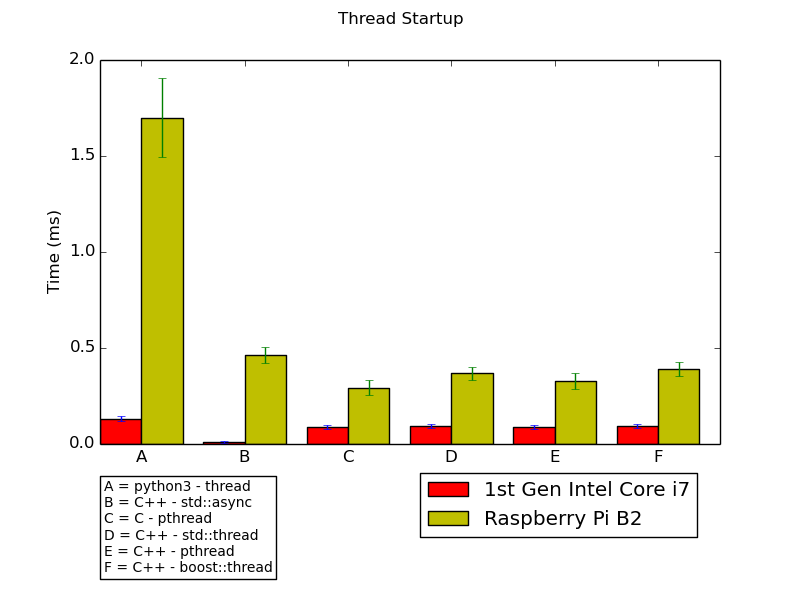
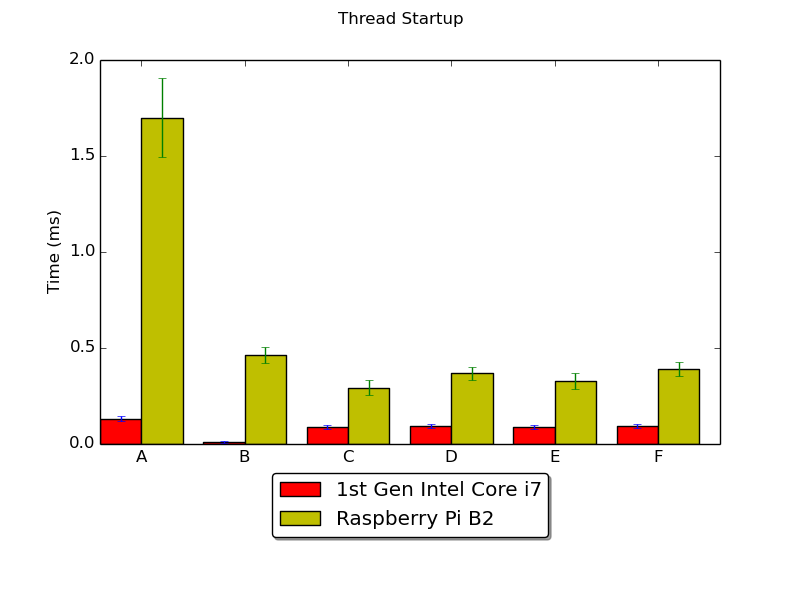
Moved labelling for bars to text in HTML

Changed region(s): [[0.125, 0.78, 0.875, 0.99]]

diff --git a/docs/index.html b/docs/index.html
@@ -23,6 +23,33 @@
 			<h2>Thread Startup</h2>
 			<p>Time between immediately before the thread creation function is called and the first execution of that thread.</p>
 			<img src="img/thread_start.png">
+			<table border="1" align=center>
+				
+				<tr>
+					<td>A = python3 - thread</td>
+				</tr>
+				
+				<tr>
+					<td>C = C - pthread</td>
+				</tr>
+				
+				<tr>
+					<td>B = C++ - std::async</td>
+				</tr>
+				
+				<tr>
+					<td>E = C++ - pthread</td>
+				</tr>
+				
+				<tr>
+					<td>D = C++ - std::thread</td>
+				</tr>
+				
+				<tr>
+					<td>F = C++ - boost::thread</td>
+				</tr>
+				
+			</table>
 			
 				<h3>1st Gen Intel Core i7</h3>
 				<table border="1">
@@ -176,6 +203,49 @@
 			<h2>Semaphore Unlock</h2>
 			<p>Time between when one thread posts a semaphore and a waiting thread is running.</p>
 			<img src="img/sem_unlock.png">
+			<table border="1" align=center>
+				
+				<tr>
+					<td>A = C++ - semt</td>
+				</tr>
+				
+				<tr>
+					<td>C = C++ - boost_namedmutex_fast</td>
+				</tr>
+				
+				<tr>
+					<td>B = C++ - boost_mutex_fast</td>
+				</tr>
+				
+				<tr>
+					<td>E = C++ - pthread_mutex_fast</td>
+				</tr>
+				
+				<tr>
+					<td>D = C - pthread_mutex_fast</td>
+				</tr>
+				
+				<tr>
+					<td>G = C - pthread_mutex_recursive</td>
+				</tr>
+				
+				<tr>
+					<td>F = C++ - boost_namedmutex_recursive</td>
+				</tr>
+				
+				<tr>
+					<td>I = C++ - pthread_mutex_recursive</td>
+				</tr>
+				
+				<tr>
+					<td>H = C - semt</td>
+				</tr>
+				
+				<tr>
+					<td>J = C++ - boost_mutex_recursive</td>
+				</tr>
+				
+			</table>
 			
 				<h3>1st Gen Intel Core i7</h3>
 				<table border="1">
@@ -409,6 +479,33 @@
 			<h2>Thread Shutdown</h2>
 			<p>Time between immediately before a thread terminates and when the creator of the thread receives notification that the thread shut down.</p>
 			<img src="img/thread_shutdown.png">
+			<table border="1" align=center>
+				
+				<tr>
+					<td>A = python3 - thread</td>
+				</tr>
+				
+				<tr>
+					<td>C = C - pthread</td>
+				</tr>
+				
+				<tr>
+					<td>B = C++ - std::async</td>
+				</tr>
+				
+				<tr>
+					<td>E = C++ - pthread</td>
+				</tr>
+				
+				<tr>
+					<td>D = C++ - std::thread</td>
+				</tr>
+				
+				<tr>
+					<td>F = C++ - boost::thread</td>
+				</tr>
+				
+			</table>
 			
 				<h3>1st Gen Intel Core i7</h3>
 				<table border="1">

diff --git a/docs/template.html b/docs/template.html
@@ -22,7 +22,14 @@
 		{% for testName in results %}
 			<h2>{{lookup[ 'Tests' ][ testName ][ 'name' ]}}</h2>
 			<p>{{lookup[ 'Tests' ][ testName ][ 'description' ]}}</p>
-			<img src="{{graphs[ testName ]}}">
+			<img src="{{graphs[ testName ][ 'path' ]}}">
+			<table border="1" align=center>
+				{% for char in graphs[ testName ][ 'text' ] %}
+				<tr>
+					<td>{{graphs[ testName ][ 'text' ][ char ]}}</td>
+				</tr>
+				{% endfor %}
+			</table>
 			{% for proc in lookup[ "CPUs" ] %}
 				<h3>{{lookup[ "CPUs" ][ proc ]}}</h3>
 				<table border="1">

diff --git a/src/generateHTML.py b/src/generateHTML.py
@@ -22,6 +22,7 @@ def graphData( args ):
 	
 	results = {}
 	for test in jsonData:
+		results[ test ] = {}
 		title = lookupData[ 'Tests' ][ test ][ 'name' ]
 	
 		avgs = {}
@@ -34,7 +35,7 @@ def graphData( args ):
 		axisLabels = []
 			
 		count = 0
-		textLines = {}
+		results[ test ][ 'text' ] = {}
 		for testRun in jsonData[ test ]:
 			currChar = chr( ord( 'A' ) + count )
 			axisLabels.append( currChar )
@@ -46,10 +47,8 @@ def graphData( args ):
 				errors[ proc ].append( data[ 'std' ] )
 				label = '{} - {}'.format( data[ 'language' ], data[ 'library' ] )
 				labels[ proc ].append( label )
-				if not currChar in textLines:
-					textLines[ currChar ] = '{} = {}'.format( currChar, label )
-		
-		text = '\n'.join( [ textLines[ letter ] for letter in sorted( textLines ) ] )
+				if not currChar in results[ test ][ 'text' ]:
+					results[ test ][ 'text' ][ currChar ] = '{} = {}'.format( currChar, label )
 
 		N = len( avgs.itervalues().next() )
 		ind = np.arange( N )
@@ -68,12 +67,11 @@ def graphData( args ):
 		ax.set_xticklabels( axisLabels )
 		box = ax.get_position()
 		ax.set_position([box.x0, box.y0 + box.height * 0.2, box.width, box.height * 0.8])
-		ax.legend( graphs, [ lookupData[ 'CPUs' ][ proc ] for proc in procs ], loc='upper left', bbox_to_anchor=(0.5, -0.05) )
-		ax.text( 0.13, 0.2, text, fontsize=10, transform=fig.transFigure, verticalalignment='top', 
-			bbox=dict( boxstyle='square', facecolor='white', alpha=1 ) )
+		ax.legend( graphs, [ lookupData[ 'CPUs' ][ proc ] for proc in procs ], loc='upper center',
+			bbox_to_anchor=( 0.5, -0.05 ), fancybox=True, shadow=True )
 		
 		path = os.path.join( os.path.relpath( args.graphPath, os.path.dirname( args.htmlFile ) ), test + '.png' )
-		results[ test ] = path
+		results[ test ][ 'path' ] = path
 		
 		fig.savefig( os.path.join( os.path.dirname( args.htmlFile ), path ) )
 		plt.close( fig )
